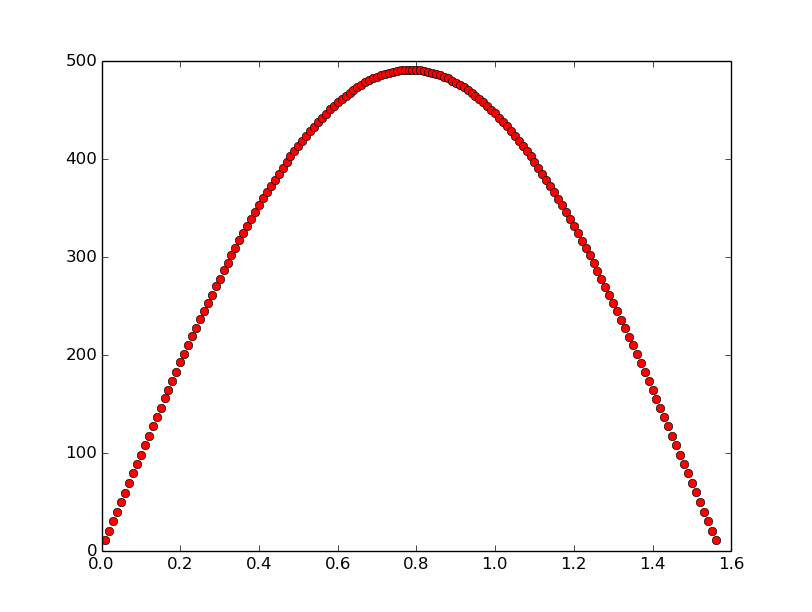
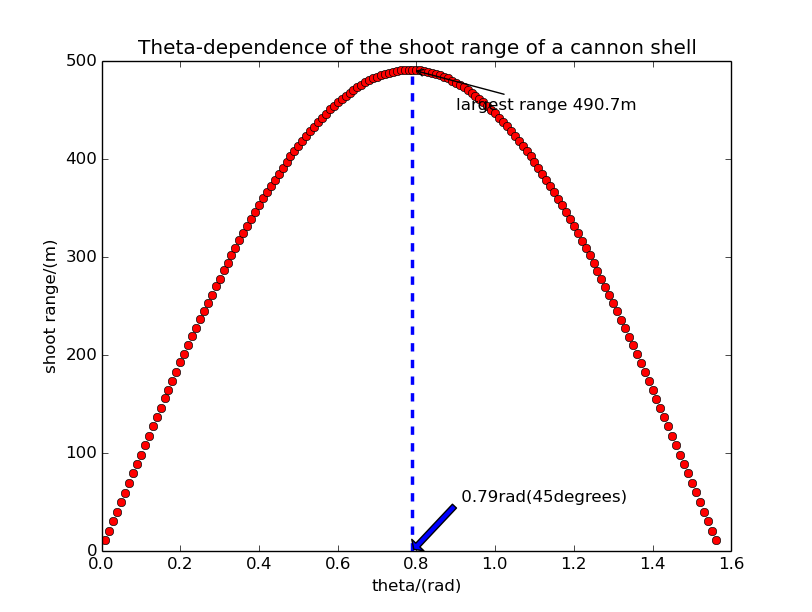
homework chapter2

diff --git a/chapter2/cannon_F_theta_discrete.py b/chapter2/cannon_F_theta_discrete.py
@@ -1,0 +1,80 @@
+# -*- coding: UTF-8 -*-
+import math
+import matplotlib.pyplot as plt
+x=[];y=[];v_x=[];v_y=[];theta_list=[];x_list=[]
+dt=0.01;g=-10;v_init=70
+
+theta=17
+v_x.append(v_init*math.cos(math.pi*theta/180));v_y.append(v_init*math.sin(math.pi*theta/180))
+x.append(0.0);y.append(0.0)
+while y[-1]>=0.0:
+    x_tmp=x[-1]+dt*v_x[-1]
+    x.append(x_tmp)
+    v_x_tmp=v_x[-1]
+    v_x.append(v_x_tmp)
+    y_tmp=y[-1]+dt*v_y[-1]
+    y.append(y_tmp)
+    v_y_tmp=v_y[-1]+dt*g
+    v_y.append(v_y_tmp)
+line1,=plt.plot(x,y)
+print theta,x[-1],v_x[-1],y[-1],v_y[-1]
+plt.show()
+
+theta=30
+v_x.append(v_init*math.cos(math.pi*theta/180));v_y.append(v_init*math.sin(math.pi*theta/180))
+x.append(0.0);y.append(0.0)
+while y[-1]>=0.0:
+    x_tmp=x[-1]+dt*v_x[-1]
+    x.append(x_tmp)
+    v_x_tmp=v_x[-1]
+    v_x.append(v_x_tmp)
+    y_tmp=y[-1]+dt*v_y[-1]
+    y.append(y_tmp)
+    v_y_tmp=v_y[-1]+dt*g
+    v_y.append(v_y_tmp)
+line2,=plt.plot(x,y)
+print theta,x[-1],v_x[-1],y[-1],v_y[-1]
+plt.show()
+
+theta=45
+
+v_x.append(v_init*math.cos(math.pi*theta/180));v_y.append(v_init*math.sin(math.pi*theta/180))
+x.append(0.0);y.append(0.0)
+while y[-1]>=0.0:
+    x_tmp=x[-1]+dt*v_x[-1]
+    x.append(x_tmp)
+    v_x_tmp=v_x[-1]
+    v_x.append(v_x_tmp)
+    y_tmp=y[-1]+dt*v_y[-1]
+    y.append(y_tmp)
+    v_y_tmp=v_y[-1]+dt*g
+    v_y.append(v_y_tmp)
+line3,=plt.plot(x,y)
+print theta,x[-1],v_x[-1],y[-1],v_y[-1]
+plt.show()
+
+theta=72
+v_x.append(v_init*math.cos(math.pi*theta/180));v_y.append(v_init*math.sin(math.pi*theta/180))
+x.append(0.0);y.append(0.0)
+while y[-1]>=0.0:
+    x_tmp=x[-1]+dt*v_x[-1]
+    x.append(x_tmp)
+    v_x_tmp=v_x[-1]
+    v_x.append(v_x_tmp)
+    y_tmp=y[-1]+dt*v_y[-1]
+    y.append(y_tmp)
+    v_y_tmp=v_y[-1]+dt*g
+    v_y.append(v_y_tmp)
+line4,=plt.plot(x,y,color='g',linewidth=1.5,linestyle='-')
+print theta,x[-1],v_x[-1],y[-1],v_y[-1]
+plt.xlabel("x/(m)");plt.ylabel('y/(m)')
+plt.title('The trajectory of a cannon shell without air resistance')
+plt.annotate('theta 17degrees',xy=(100,19.3),xytext=(120,12),
+arrowprops=dict(arrowstyle="->"))
+plt.annotate('theta 30degrees',xy=(100,43.4),xytext=(120,30),
+arrowprops=dict(arrowstyle="->"))
+plt.annotate('theta 45degrees',xy=(189,116),xytext=(200,100),
+arrowprops=dict(arrowstyle="->"))
+plt.annotate('theta 72degrees',xy=(188,201),xytext=(208,190),
+arrowprops=dict(arrowstyle="->"))
+plt.show()

diff --git a/chapter2/cannon_aimming_ARV.py b/chapter2/cannon_aimming_ARV.py
@@ -1,16 +1,17 @@
 # -*- coding: UTF-8 -*-
 import math
 import matplotlib.pyplot as plt
-x=[];y=[];v_x=[];v_y=[];t=[];i=[];v=[]
-dt=0.1;g=-10;theta=1;B=0.04;y0=1.0*math.pow(10,4)
+x=[];y=[];v_x=[];v_y=[];v=[];v_proper=[]
+dt=0.1;g=-10;theta=1;B=0.0004;y0=1.0*math.pow(10,4)
 
 
 
-for v_init in range(1,6):
-    i.append(0);t.append(0.0);v.append(v_init)
+for v_init in range(425000,425400):
+    v_init=0.001*v_init
+    v.append(v_init)
     v_x.append(v_init*math.cos(theta));v_y.append(v_init*math.sin(theta))
     x.append(0.0);y.append(0.0)
-    while x[-1]<=18:
+    while x[-1]<=800:
         v.append(math.sqrt(v_x[-1]**2+v_y[-1]**2))
         x_tmp=x[-1]+dt*v_x[-1]
         x.append(x_tmp)
@@ -20,12 +21,11 @@ for v_init in range(1,6):
         y.append(y_tmp)
         v_y_tmp=v_y[-1]+dt*g-B*math.pow(math.e,-y[-1]/y0)*v[-1]*v_y[-1]*dt
         v_y.append(v_y_tmp)
-        i_tmp=i[-1]+1
-        i.append(i_tmp)
-        t.append(dt*i[-1])
-        if math.sqrt((x[-1]-32.3)**2+(y[-1]-21.6)**2)<=20:
+        if math.sqrt((x[-1]-500)**2+(y[-1]-750)**2)<=0.1:
             print '合适的速度：',v_init
+            v_proper.append(v_init)
             break
+print 'theta=1时，在偏差不超过0.1m的精度下打击到(500m,750m)处的目标的最小速度为：',min(v_proper)
         
 
 

diff --git a/chapter2/cannon-ARV.py b/chapter2/cannon-ARV.py
@@ -1,11 +1,10 @@
 import math
 import matplotlib.pyplot as plt
 x=[];y=[];v_x=[];v_y=[];t=[];i=[];v=[]
-dt=0.1;g=-10;v_init=70;theta=math.pi/4;B=0.04;y0=1.0*math.pow(10,4)
+dt=0.1;g=-10;v_init=500;theta=1;B=0.0004;y0=1.0*math.pow(10,4)
 x.append(0.0);y.append(0.0);v_x.append(v_init*math.cos(theta));v.append(v_init)
 v_y.append(v_init*math.sin(theta));t.append(0.0);i.append(0)
 while y[-1]>=0.0:
-    print t[-1],x[-1],v_x[-1],y[-1],v_y[-1]
     v.append(math.sqrt(v_x[-1]**2+v_y[-1]**2))
     x_tmp=x[-1]+dt*v_x[-1]
     x.append(x_tmp)
@@ -24,5 +23,13 @@ x.append((x[-1]+a*x[-2])/(1+a))
 y.append(0)
 print t[-1],x[-1],v_x[-1],y[-1],v_y[-1]
 
-plt.plot(x,y,color='green',linewidth=1.5,linestyle='--')
+plt.plot(x,y,color='b',linewidth=1.5,linestyle='-')
+plt.xlabel("x/(m)");plt.ylabel('y/(m)')
+plt.title('The trajectory of a cannon shell with varying air resistance')
+plt.plot([2253,2253],[0,2408],color ='blue', linewidth=2.5, linestyle="--")
+plt.plot([0,4000],[0,0],color ='g', linewidth=2.5, linestyle="--")
+plt.annotate('2408m',xy=(2253,2408),xytext=(2353,2308),
+arrowprops=dict(facecolor='blue',shrink=0.03))
+plt.annotate('2253m',xy=(2253,0),xytext=(2453,100),
+arrowprops=dict(facecolor='blue',shrink=0.03))
 plt.show()

diff --git a/chapter2/cannon_aiming_F.py b/chapter2/cannon_aiming_F.py
@@ -1,13 +1,12 @@
 # -*- coding: UTF-8 -*-
 import math
 import matplotlib.pyplot as plt
-x=[];y=[];v_x=[];v_y=[];t=[];i=[]
+x=[];y=[];v_x=[];v_y=[];v_proper=[]
 dt=0.01;g=-10;theta=1
 
 
 
 for v_init in range(70400,70600):
-    i.append(0);t.append(0.0)
     v_x.append(0.001*v_init*math.cos(theta));v_y.append(0.001*v_init*math.sin(theta))
     x.append(0.0);y.append(0.0)
     while x[-1]<=600:
@@ -19,9 +18,8 @@ for v_init in range(70400,70600):
         y.append(y_tmp)
         v_y_tmp=v_y[-1]+dt*g
         v_y.append(v_y_tmp)
-        i_tmp=i[-1]+1
-        i.append(i_tmp)
-        t.append(dt*i[-1])
-        if math.sqrt((x[-1]-223.14)**2+(y[-1]-176.43)**2)<=0.01:
+        if math.sqrt((x[-1]-223.14)**2+(y[-1]-176.43)**2)<=0.15:
             print '合适的速度：',0.001*v_init
+            v_proper.append(0.001*v_init)
             break
+print 'theta=1时，在偏差不超过0.15m的精度下打击到(223.14m,176.43m)处的目标的最小速度为：',min(v_proper)

diff --git a/chapter2/cannon-F.py b/chapter2/cannon-F.py
@@ -1,11 +1,10 @@
 import math
 import matplotlib.pyplot as plt
-x=[];y=[];v_x=[];v_y=[];t=[];i=[]
+x=[];y=[];v_x=[];v_y=[]
 dt=0.01;g=-10;v_init=71;theta=1
 x.append(0.0);y.append(0.0);v_x.append(v_init*math.cos(theta))
-v_y.append(v_init*math.sin(theta));t.append(0.0);i.append(0)
+v_y.append(v_init*math.sin(theta));
 while y[-1]>=0.0:
-    print t[-1],x[-1],v_x[-1],y[-1],v_y[-1]
     x_tmp=x[-1]+dt*v_x[-1]
     x.append(x_tmp)
     v_x_tmp=v_x[-1]
@@ -14,15 +13,13 @@ while y[-1]>=0.0:
     y.append(y_tmp)
     v_y_tmp=v_y[-1]+dt*g
     v_y.append(v_y_tmp)
-    i_tmp=i[-1]+1
-    i.append(i_tmp)
-    t.append(dt*i[-1])
     
 a=-y[-1]/y[-2]
 x.append((x[-1]+a*x[-2])/(1+a))
 y.append(0)
-print t[-1],x[-1],v_x[-1],y[-1],v_y[-1]
+print x[-1],v_x[-1],y[-1],v_y[-1]
 
-plt.plot(x,y,color='green',linewidth=1.5,linestyle='--')
+plt.plot(x,y,color='green',linewidth=1.5,linestyle='-')
+
 plt.show()
 

diff --git a/chapter2/cannon_theta_ARV.py b/chapter2/cannon_theta_ARV.py
@@ -25,5 +25,13 @@ for theta in range(1,int(50*math.pi)):
      
     theta_list.append(0.01*theta);x_list.append(x[-1])
     print theta,t[-1],x[-1],v_x[-1],y[-1],v_y[-1]
-plt.plot(theta_list,x_list,'ro')
+plt.plot(theta_list,x_list,'g-')
+plt.xlabel("theta/(rad)");plt.ylabel('shoot range/(m)')
+plt.title('shoot range - theta relation of a cannon shell with varying air resistance')
+plt.plot([0.85,0.85],[0,357],color ='blue', linewidth=2.5, linestyle="--")
+plt.annotate('largest range 357m',xy=(0.85,357),xytext=(1.0,380),
+arrowprops=dict(facecolor='blue',shrink=0.03))
+plt.annotate(' 0.85rad(49degrees)',xy=(0.85,0),xytext=(1.0,20),
+arrowprops=dict(facecolor='blue',shrink=0.03))
 plt.show()
+

diff --git a/chapter2/cannon-theta-F.py b/chapter2/cannon-theta-F.py
@@ -23,6 +23,13 @@ for theta in range(1,int(50*math.pi)):
         t.append(dt*i[-1])        
      
     theta_list.append(0.01*theta);x_list.append(x[-1])
-    print theta,t[-1],x[-1],v_x[-1],y[-1],v_y[-1]
 plt.plot(theta_list,x_list,'ro')
+plt.xlabel("theta/(rad)");plt.ylabel('shoot range/(m)')
+plt.title('Theta-dependence of the shoot range of a cannon shell')
+
+plt.plot([0.79,0.79],[0,490.7],color ='blue', linewidth=2.5, linestyle="--")
+plt.annotate('largest range 490.7m',xy=(0.79,490.7),xytext=(0.9,450),
+arrowprops=dict(arrowstyle="->"))
+plt.annotate(' 0.79rad(45degrees)',xy=(0.79,0),xytext=(0.90,50),
+arrowprops=dict(facecolor='blue',shrink=0.03))
 plt.show()
